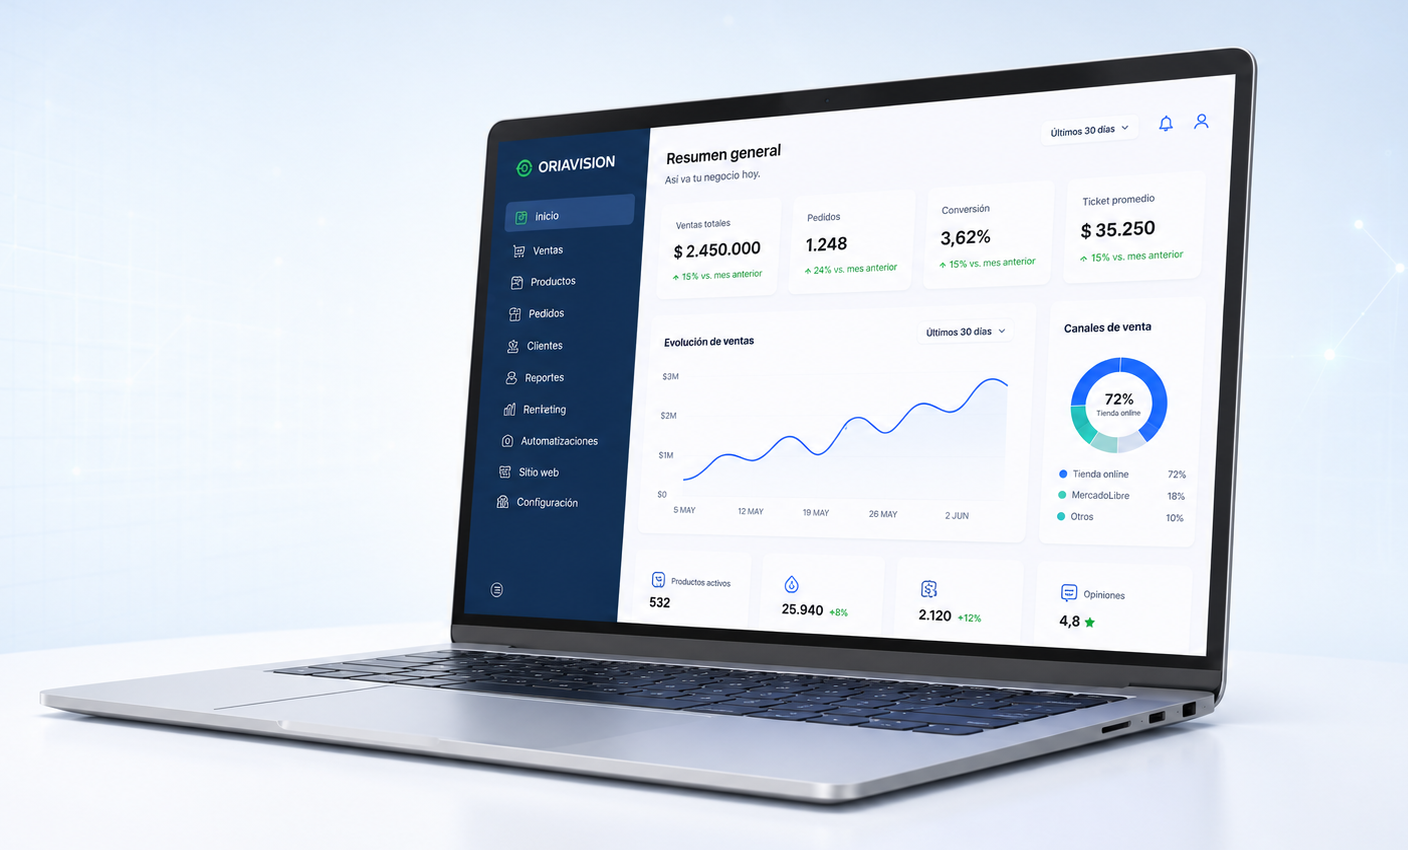
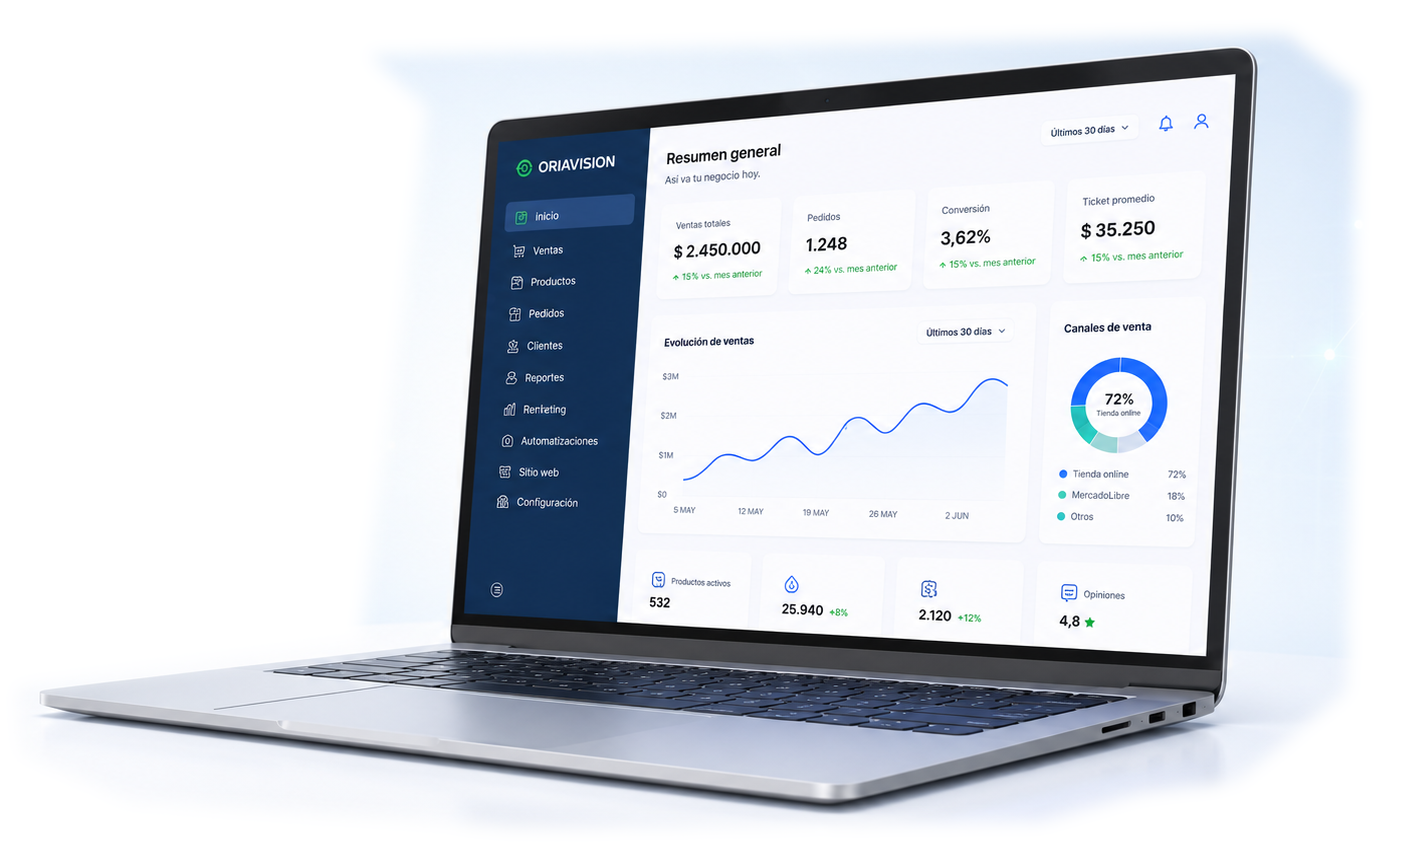
cambio imagen y correccion tamaño barra de busqueda

diff --git a/src/app/page.tsx b/src/app/page.tsx
@@ -1133,8 +1133,12 @@ const pageStyles = `
   }
 
   .ov-hero-integrated .ov-search-shell {
-    width: min(100%, 520px);
+    width: min(calc(100vw - 24px), 1360px);
+    max-width: none;
     margin: 0 auto 1.35rem;
+    position: relative;
+    left: 50%;
+    transform: translateX(-50%);
     border-color: rgba(255,255,255,.78);
     background: rgba(255,255,255,.78);
     box-shadow: 0 20px 60px rgba(10,31,110,.08);
@@ -1265,7 +1269,10 @@ const pageStyles = `
 
     .ov-hero-integrated .ov-search-shell {
       width: 100%;
+      max-width: none;
       margin: 0 0 1rem;
+      left: auto;
+      transform: none;
     }
 
     .ov-hero-combo-desktop {
